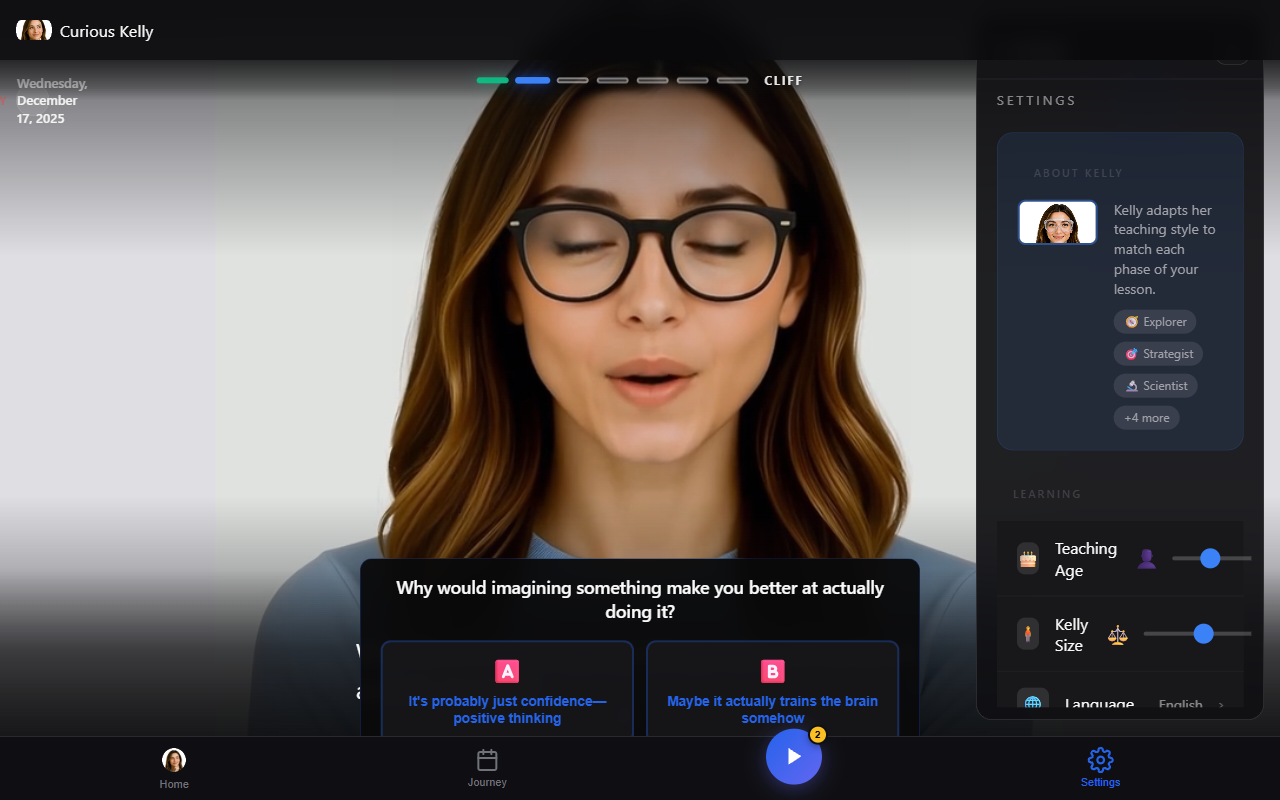
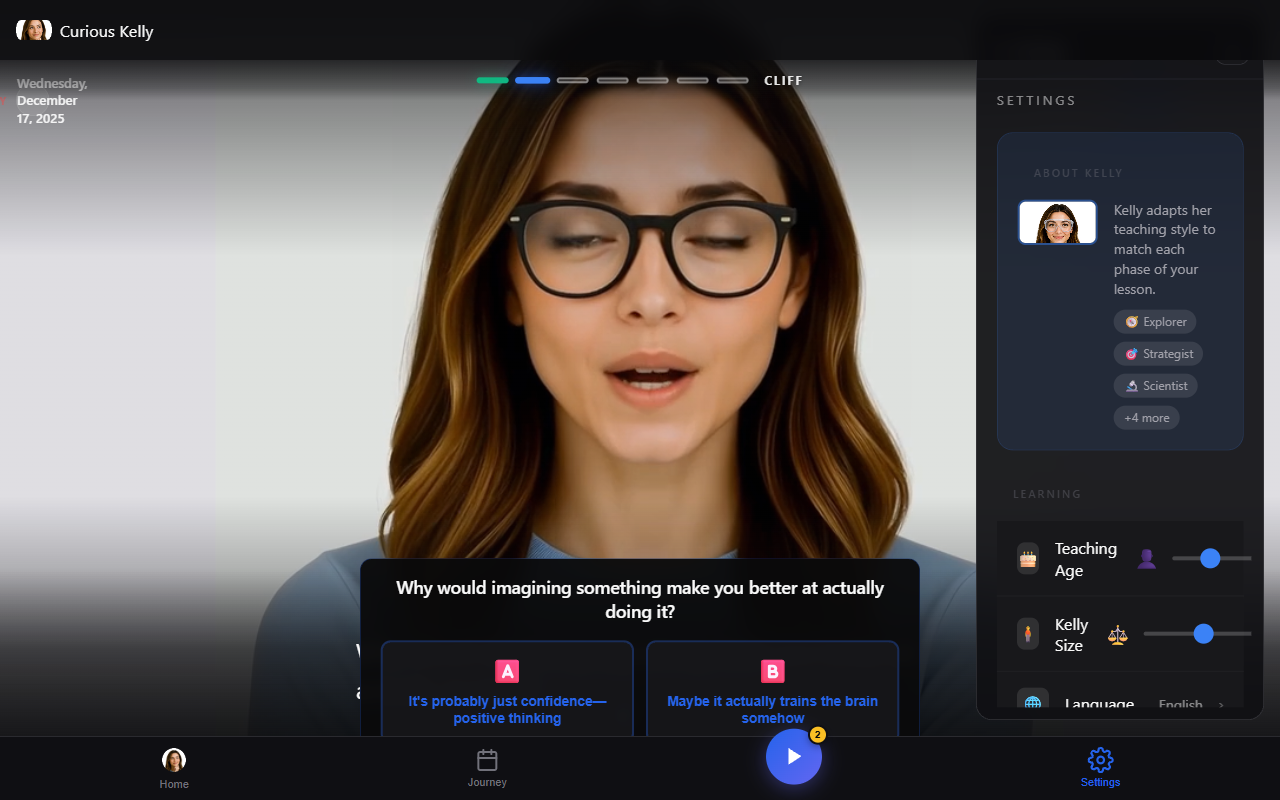
fix: Prevent content overflow in lesson viewport and bottom zone

diff --git a/scripts/seed-visual-commons.ts b/scripts/seed-visual-commons.ts
@@ -206,46 +206,42 @@ DO NOT include any text.
 `,
 
   fact3: (lesson) => `
-Create a WOW MOMENT scene for: "${lesson.topic}"
+Create a stunning educational scene about: "${lesson.topic}"
 
-This is the SURPRISING detail that makes the lesson memorable.
-
-Wow factor: ${lesson.wow_moment || lesson.fun_facts?.[2] || lesson.universal_truth}
+This captures the most surprising aspect of the topic.
 
 STYLE:
-- Ultra photorealistic, dramatic "reveal" lighting
-- Maximum visual impact
+- Ultra photorealistic, dramatic lighting
+- Maximum visual impact and wonder
 - 16:9 aspect ratio, 4K quality
 - Bold, memorable composition
 
 COMPOSITION:
-- Capture the "mind-blown" moment
-- Show the unexpected truth
-- Create an image worth sharing
+- Capture a moment of discovery
+- Show something unexpected and beautiful
+- Create an image that inspires curiosity
 
-DO NOT include any text. Pure visual impact.
+DO NOT include any text.
 `,
 
   wisdom: (lesson) => `
-Create an inspiring, LIFE APPLICATION scene for: "${lesson.topic}"
+Create an inspiring scene about: "${lesson.topic}"
 
-Universal truth: ${lesson.universal_truth}
-
-This visual should feel like a POSTER ON THE WALL - wisdom worth remembering.
+This visual captures timeless wisdom and new possibilities.
 
 STYLE:
-- Ultra photorealistic, warm golden hour or inspirational lighting
+- Ultra photorealistic, warm golden hour lighting
 - Timeless, universal appeal
 - 16:9 aspect ratio, 4K quality
-- Emotionally resonant
+- Peaceful and inspiring
 
 COMPOSITION:
-- Connect the concept to everyday life
-- Show human element or relatable context
-- Create a feeling of insight and growth
-- Suitable for sharing on social media
+- Beautiful natural or everyday setting
+- Sense of possibility and hope
+- Create a feeling of growth and renewal
+- Suitable for sharing
 
-DO NOT include any text. Let the image speak wisdom.
+DO NOT include any text.
 `,
 
   outro: (lesson) => `

diff --git a/public/learn.html b/public/learn.html
@@ -804,6 +804,8 @@
       overflow: hidden;
       /* Prevent tall panel content from expanding the whole page */
       min-height: 0;
+      /* Clip all overflow including left/right margins */
+      clip-path: inset(0);
     }
 
     /* Lesson header becomes a floating control cluster (does not push layout) */
@@ -1106,6 +1108,7 @@
       /* Sacred rule: captions + phase bar must remain visible */
       position: relative;
       z-index: 20;
+      overflow: hidden; /* Prevent content bleeding */
     }
     
     /* Kelly Hero - Desktop */
